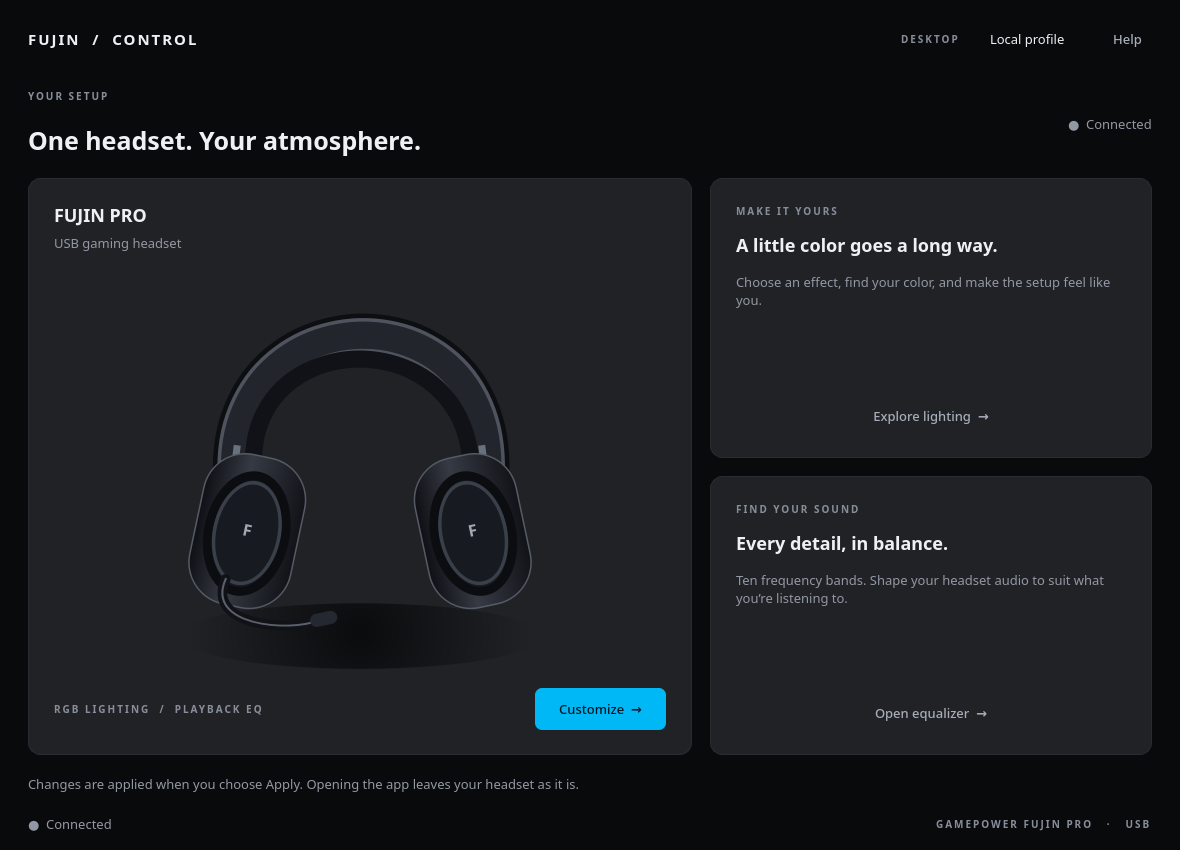
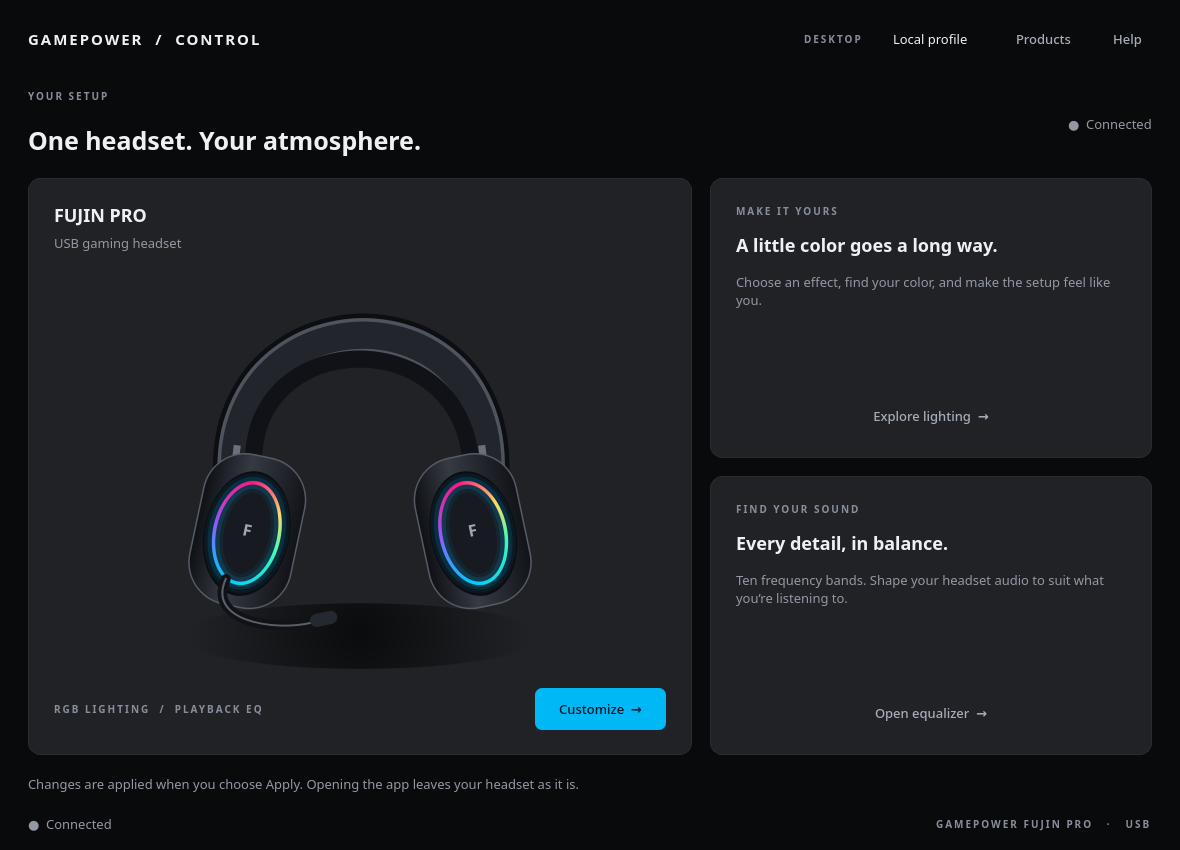
Apply GamePower Control branding and refresh all app screenshots

diff --git a/fujin_app.py b/fujin_app.py
@@ -18,6 +18,7 @@ import fujin_devices
 from fujin_products import ProductsPage
 
 ROOT = Path(__file__).resolve().parent
+APP_NAME = 'GamePower Control'
 STATE = ROOT / '.state' / 'desktop.json'
 BLUE = '#00b8f5'
 MODE_LABELS = {'single': 'Fixed', 'breathe': 'Breathe', 'rainbow': 'Rainbow', 'blink': 'Blink', 'off': 'Off'}
@@ -157,7 +158,7 @@ class GainGraph(QWidget):
 
 class Window(QMainWindow):
     def __init__(self):
-        super().__init__();self.setWindowTitle('Fujin Control');self.setWindowIcon(QIcon(str(ROOT/'assets/fujin.svg')))
+        super().__init__();self.setWindowTitle(APP_NAME);self.setWindowIcon(QIcon(str(ROOT/'assets/fujin.svg')))
         self.resize(1180,850);self.setMinimumSize(1000,800)
         self.mode='rainbow';self.rgb='ff0080';self.speed=100;self.gains=[0.0]*10;self.busy=False;self.eq_pending=None;self.eq_ready=False;self.eq_failure=''
         self.device_path=None;self.last_applied=None
@@ -167,7 +168,7 @@ class Window(QMainWindow):
         self.eq_buffer='';self.eq_intentional_stop=False;self.closing=False
         root=QWidget();self.setCentralWidget(root);layout=QVBoxLayout(root);layout.setContentsMargins(28,23,28,17);layout.setSpacing(22)
         top=QHBoxLayout();self.back=button('‹  Devices',lambda:self.navigate('home'),'ghost');top.addWidget(self.back)
-        brand=label('FUJIN  /  CONTROL');brand.setStyleSheet('font-weight:800; letter-spacing:2px; font-size:15px;');top.addWidget(brand);top.addStretch()
+        brand=label('GAMEPOWER  /  CONTROL');brand.setStyleSheet('font-weight:800; letter-spacing:2px; font-size:15px;');top.addWidget(brand);top.addStretch()
         top.addWidget(label('DESKTOP', 'eyebrow'));top.addSpacing(8);top.addWidget(label('Local profile'));top.addSpacing(16)
         top.addWidget(button('Products',self.device_catalog,'ghost'));top.addWidget(button('Help',self.help,'ghost'));layout.addLayout(top)
         self.stack=QStackedWidget();layout.addWidget(self.stack,1)
@@ -365,7 +366,7 @@ class Window(QMainWindow):
         self.products.refresh();self.navigate('products')
 
     def help(self):
-        text='Fujin Control\n\nLighting: select an effect, color and speed, then Apply lighting.\nEQ: adjust the bands, then Enable EQ / Apply EQ. EQ stays active while this app is open. In KDE audio, select Fujin Pro Equalizer as your application’s output.\n\nThe ten frequencies, ±6 dB range and Vendor profile 1 come from the Windows configuration. Linux uses PipeWire peaking filters (Q 1.4); matching the Windows DSP exactly is not established. Positive boosts add input attenuation for headroom.\n\nIf the headset needs access, use the scoped udev rule in README.md. For a temporary test, run this in a terminal:\n\nsudo setfacl -m u:'+getpass.getuser()+':rw '+(self.device_path or '/dev/hidrawN')+'\n\nClosing the app leaves lighting as-is and stops its software EQ. Settings are remembered locally; nothing applies automatically at launch.'
+        text=APP_NAME+'\n\nLighting: select an effect, color and speed, then Apply lighting.\nEQ: adjust the bands, then Enable EQ / Apply EQ. EQ stays active while this app is open. In KDE audio, select Fujin Pro Equalizer as your application’s output.\n\nThe ten frequencies, ±6 dB range and Vendor profile 1 come from the Windows configuration. Linux uses PipeWire peaking filters (Q 1.4); matching the Windows DSP exactly is not established. Positive boosts add input attenuation for headroom.\n\nIf the headset needs access, use the scoped udev rule in README.md. For a temporary test, run this in a terminal:\n\nsudo setfacl -m u:'+getpass.getuser()+':rw '+(self.device_path or '/dev/hidrawN')+'\n\nClosing the app leaves lighting as-is and stops its software EQ. Settings are remembered locally; nothing applies automatically at launch.'
         QMessageBox.information(self,'About & device access',text)
     def closeEvent(self,event):
         if self.busy:self.status.setText('Wait for the current lighting change to finish before closing.');event.ignore();return
@@ -374,7 +375,7 @@ class Window(QMainWindow):
         self.save_state();event.accept()
 
 def main():
-    app=QApplication(sys.argv);app.setApplicationName('Fujin Control');app.setDesktopFileName('fujin-control');app.setStyle('Fusion');app.setStyleSheet(STYLE)
+    app=QApplication(sys.argv);app.setApplicationName(APP_NAME);app.setDesktopFileName('fujin-control');app.setStyle('Fusion');app.setStyleSheet(STYLE)
     w=Window();w.show()
     return app.exec()
 

diff --git a/tools/install_desktop.py b/tools/install_desktop.py
@@ -21,7 +21,7 @@ def main():
     target = data_home / 'applications/fujin-control.desktop'
     target.parent.mkdir(parents=True, exist_ok=True)
     target.write_text('\n'.join([
-        '[Desktop Entry]', 'Type=Application', 'Name=Fujin Control',
+        '[Desktop Entry]', 'Type=Application', 'Name=GamePower Control',
         'Comment=GamePower Fujin Pro lighting and playback equalizer',
         'Exec=' + quoted(sys.executable) + ' ' + quoted(ROOT / 'fujin_app.py'),
         'Icon=' + str(ROOT / 'assets/fujin.svg').replace('\\', '\\\\'),

diff --git a/README.md b/README.md
@@ -59,7 +59,7 @@ The vendor configuration selects **software EQ**. Band frequencies, gain limits 
 
 EQ runs only while the app is open. It processes playback routed into its virtual sink, sends no USB audio-control commands, and leaves the default output and microphone unchanged. Newly observed Pulse playback streams directly on the headset are moved through the EQ. Turning it off or closing the app restores its playback to the headset and removes its graph. Details: [EQ findings](evidence/eq-findings.md).
 
-Screenshots show the earlier Fujin Control branding and were captured from a visible Wayland instance of the actual app, without applying lighting or enabling EQ. The headset preview drawing and app icon are original vector artwork. The Products gallery uses attributed official product images.
+Screenshots were captured from a visible Wayland instance of the actual app, without applying lighting or enabling EQ. The headset preview drawing and app icon are original vector artwork. The Products gallery uses attributed official product images.
 
 ## Device permissions
 
